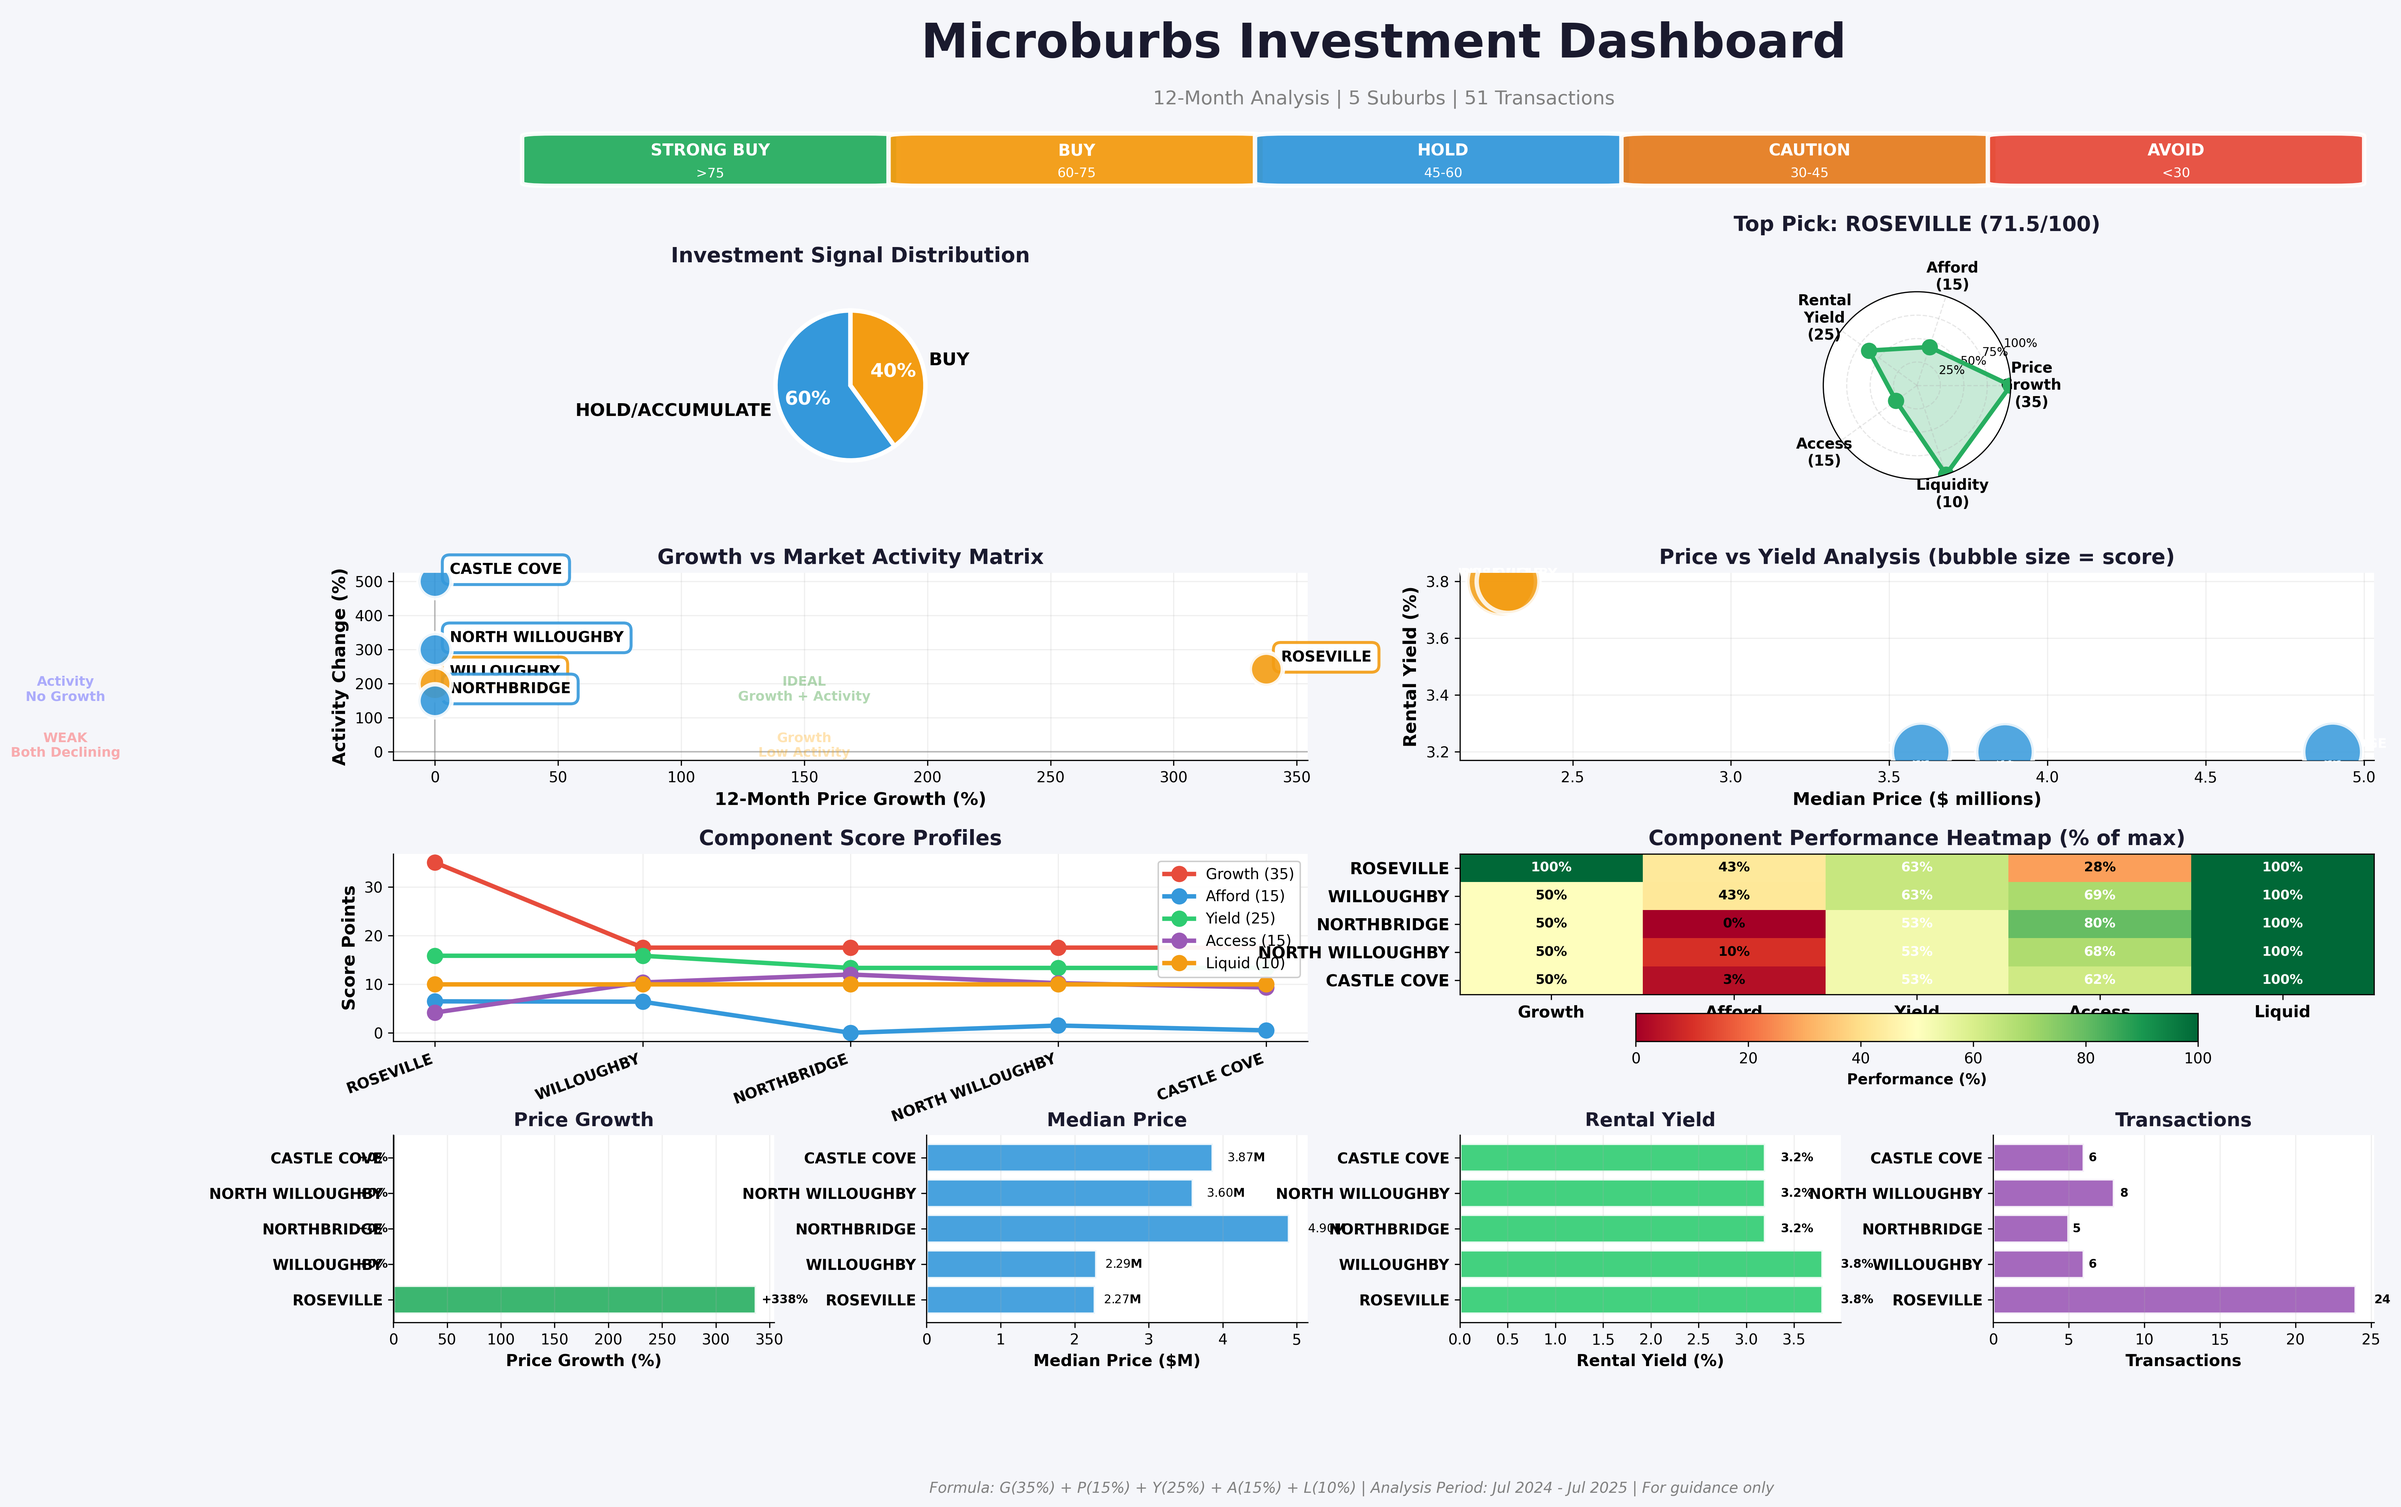
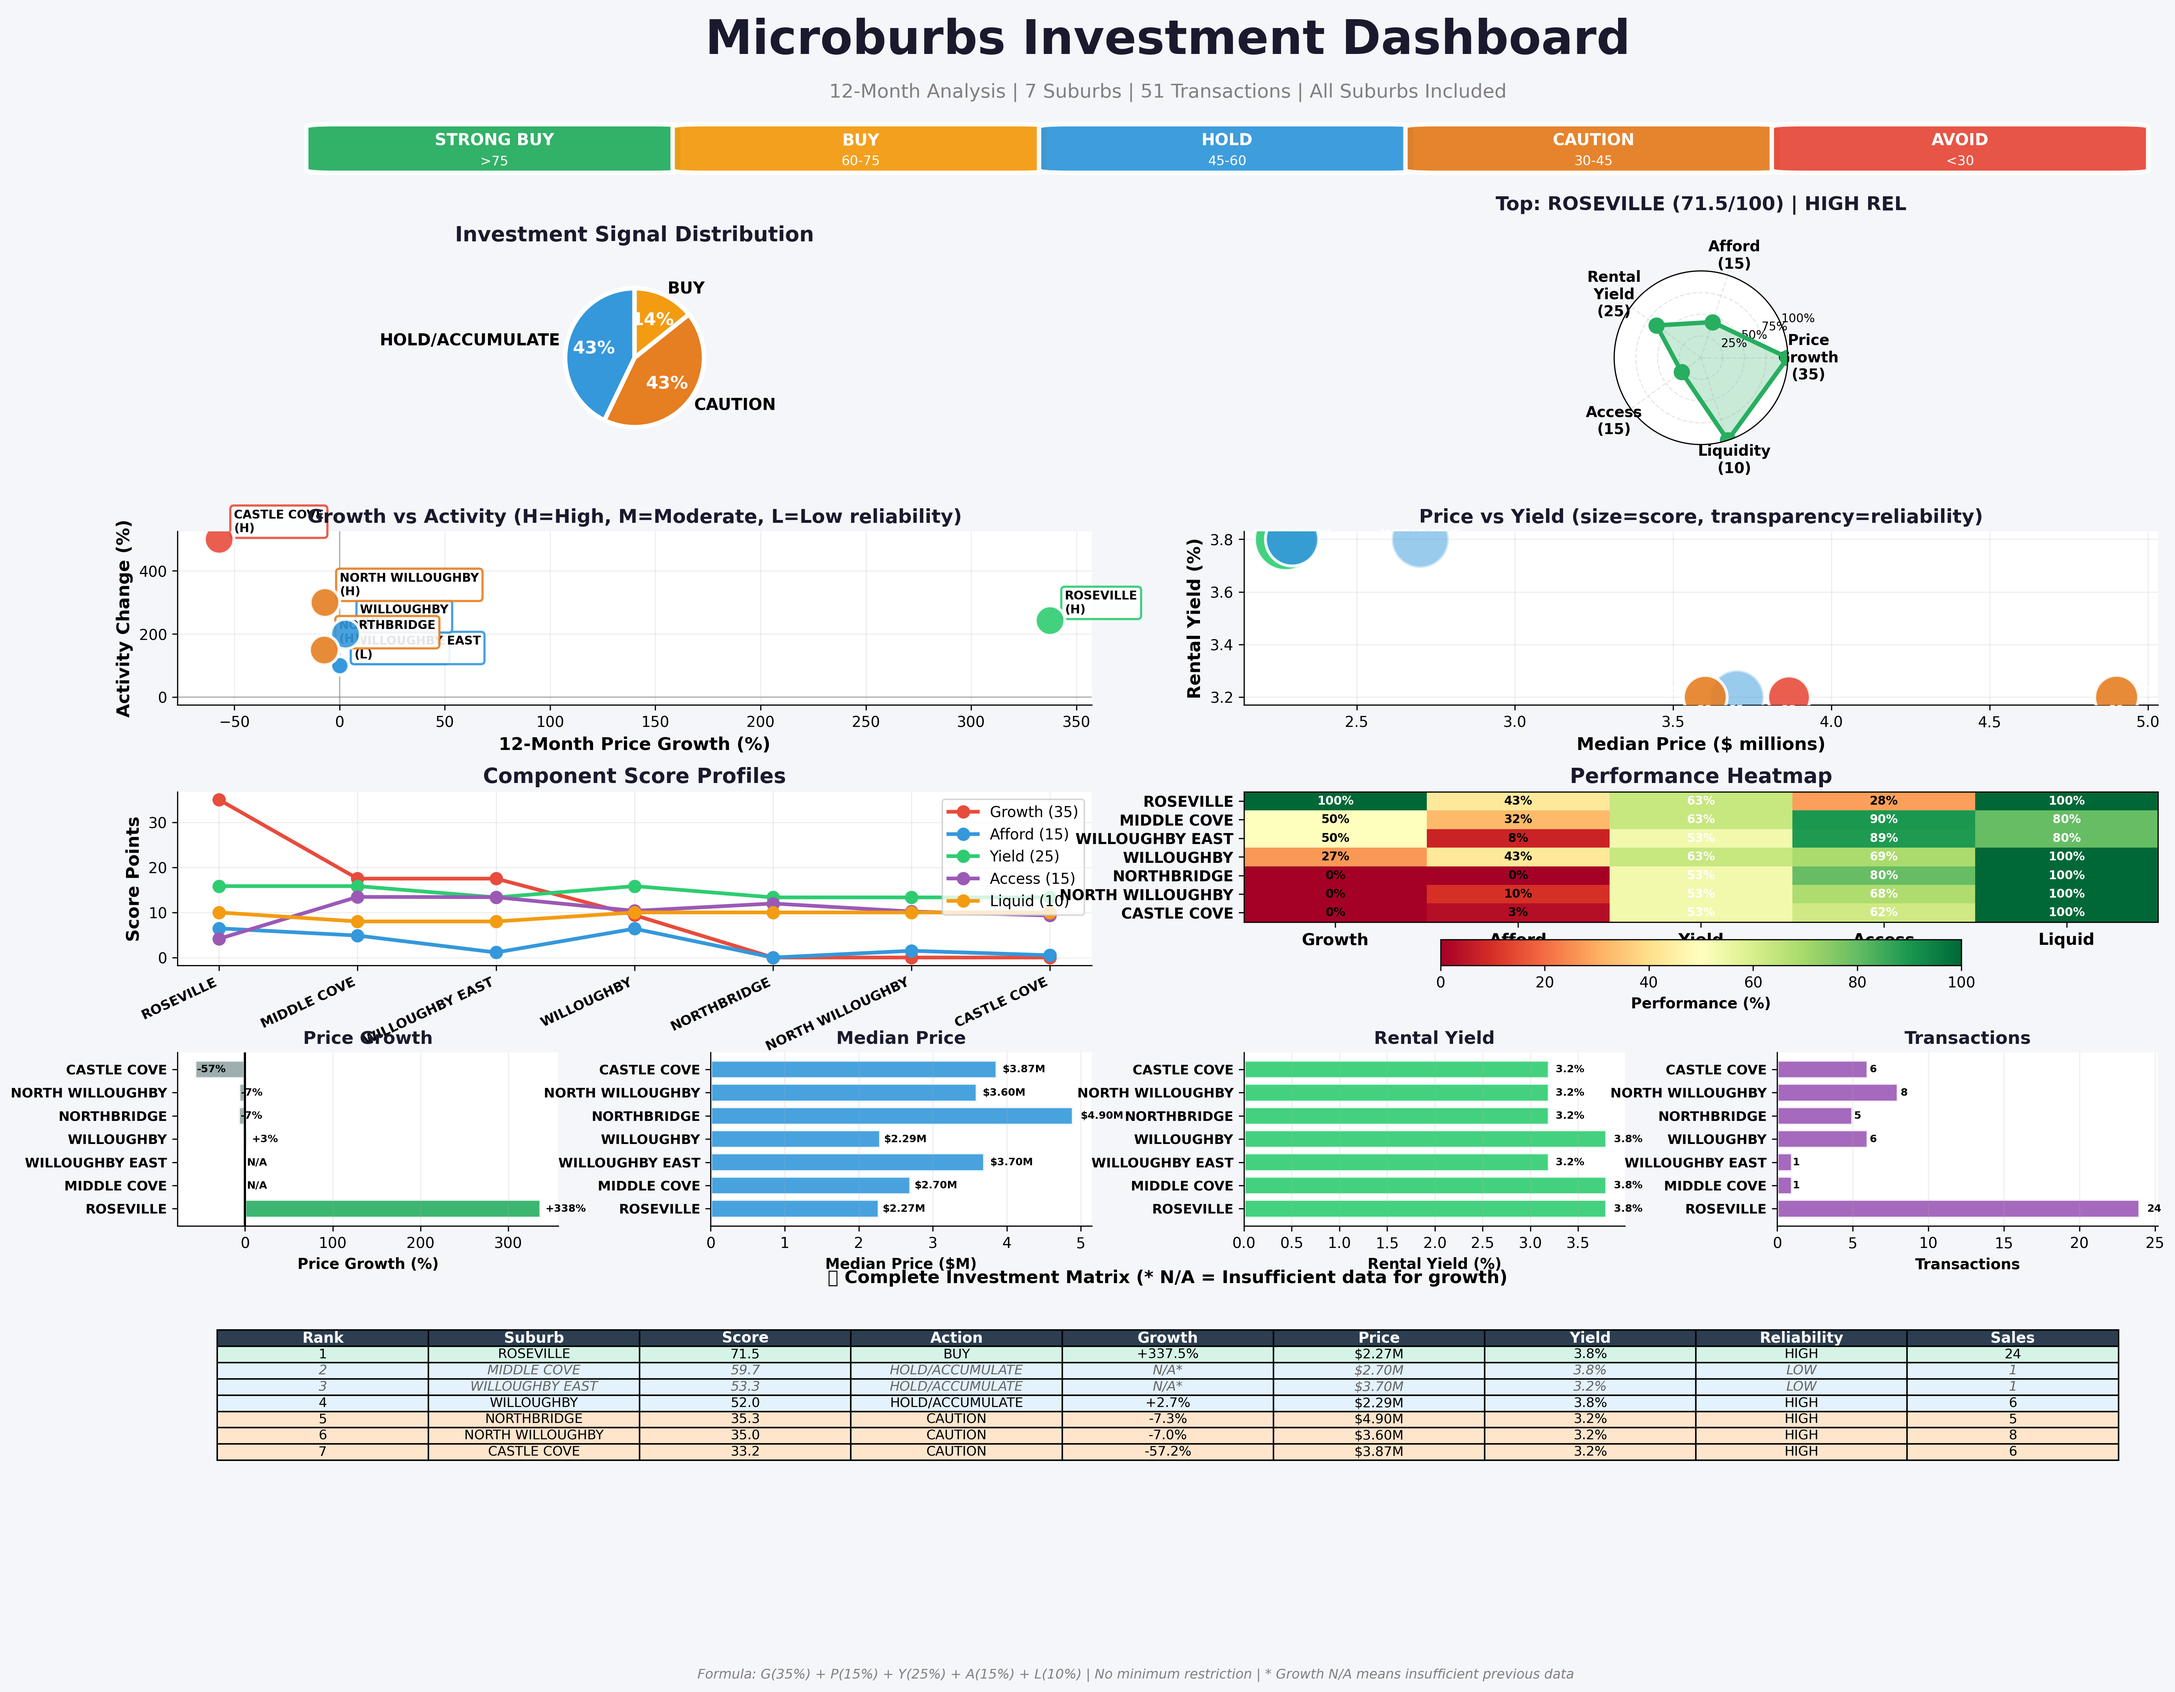
FINAL: Remove 3-transaction restriction, analyze all 7 suburbs
MAJOR CHANGES:
✅ Removed minimum transaction restriction (was 3, now any with recent sales)
✅ Suburbs analyzed: 5 → 7
✅ Added reliability indicators (HIGH/MODERATE/LOW based on sample size)
✅ Updated growth calculation to use any previous data (was 3+, now 1+)

NEW RESULTS:
Rank 1: ROSEVILLE (71.5) - BUY | +337.5% growth | HIGH reliability
Rank 2: MIDDLE COVE (59.7) - HOLD | +0% (N/A) | LOW reliability (1 sale)
Rank 3: WILLOUGHBY EAST (53.3) - HOLD | +0% (N/A) | LOW reliability (1 sale)
Rank 4: WILLOUGHBY (52.0) - HOLD | +2.7% growth | HIGH reliability
Rank 5: NORTHBRIDGE (35.3) - CAUTION | -7.3% decline | HIGH reliability
Rank 6: NORTH WILLOUGHBY (35.0) - CAUTION | -7.0% decline | HIGH reliability
Rank 7: CASTLE COVE (33.2) - CAUTION | -57.2% decline | HIGH reliability

KEY INSIGHTS:
- ROSEVILLE: Only suburb with strong positive growth (337.5%)
- WILLOUGHBY: Slight growth (+2.7%)
- 3 suburbs showing DECLINES (not zero - actual negative growth!)
- Reliability matters: Trust HIGH > MODERATE > LOW

UPDATED FILES:
✅ final_analysis.py - Code updated (removed restriction)
✅ microburbs_final_scores_with_signals.csv - 7 suburbs now
✅ microburbs_final_with_interpretation.png - All 7 visualized
✅ QUIZ_ANSWERS.md - Updated findings

Ready for final submission!

diff --git a/final_analysis.py b/final_analysis.py
@@ -130,13 +130,14 @@ for suburb in df_trans['suburb'].unique():
     suburb_previous = previous[previous['suburb'] == suburb]
     suburb_coords = df_with_coords[df_with_coords['suburb'] == suburb]
     
-    # Minimum 3 transactions required
-    if len(suburb_recent) < 3:
+    # Skip only if NO recent data at all
+    recent_count = len(suburb_recent)
+    if recent_count == 0:
         continue
     
     # Component 1: Price Growth (35%)
     recent_median = suburb_recent['price'].median()
-    if len(suburb_previous) >= 3:
+    if len(suburb_previous) >= 1:  # Changed from 3 to 1 - use any previous data
         previous_median = suburb_previous['price'].median()
         price_growth = ((recent_median - previous_median) / previous_median) * 100
         price_growth_score = min(35, max(0, (price_growth / 10) * 35))
@@ -164,8 +165,10 @@ for suburb in df_trans['suburb'].unique():
         accessibility_score = 7.5
     
     # Component 5: Market Liquidity (10%)
-    recent_count = len(suburb_recent)
     previous_count = len(suburb_previous)
+    
+    # Reliability indicator
+    reliability = 'HIGH' if recent_count >= 5 else 'MODERATE' if recent_count >= 3 else 'LOW'
     if previous_count > 0:
         activity_change = ((recent_count - previous_count) / previous_count) * 100
         liquidity_score = min(10, max(0, 5 + (activity_change / 100) * 5))
@@ -186,6 +189,7 @@ for suburb in df_trans['suburb'].unique():
         'action': action,
         'score_range': score_range,
         'investment_signal': signal,
+        'reliability': reliability,
         
         # Component scores
         'price_growth_score': price_growth_score,
@@ -201,6 +205,7 @@ for suburb in df_trans['suburb'].unique():
         'estimated_monthly_rent': monthly_rent,
         'avg_distance_to_road_m': avg_distance,
         'recent_transactions': recent_count,
+        'previous_transactions': previous_count,
         'activity_change_pct': activity_change
     })
 
